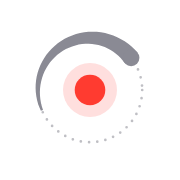
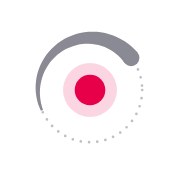
Palet C (Amaranth, Orange, Spring Green, Yale Blue) en afvinken als slinger
De momenten krijgen het palet op basis van Victors foto, van warm naar
koel, getoetst op contrast en onderscheid in licht en donker. Afvinken
laat de bol niet meer uiteenspatten: hij vliegt rechtdoor uit zijn baan,
in de richting waarin hij bewoog en met dezelfde snelheid, zoals een
planeet zonder zwaartekracht. Iconen en favicon met de nieuwe kernkleur.

Claude-Session: https://claude.ai/code/session_01DKza2nncPbWGfFsHg8Vg2p

Changed region(s): [[0.4167, 0.4167, 0.5833, 0.5833]]

diff --git a/src/scene.js b/src/scene.js
@@ -29,6 +29,7 @@ const TAIL_GAP = 7, TAIL_LENGTH = 1.1, TRAIL_STEPS = 10;
 const ORB_SCALE = 0.85;                 // straal t.o.v. LEVELS[].size / 2
 // Kern: zeshoekig raster van puntjes (stage-eenheden), straal groeit van rustig naar dringend.
 // Op een klein scherm wordt het raster grover (min. CORE_MIN_PX tussen de puntjes), anders vervloeit het tot een vlek.
+const FLING_MIN = 90, FLING_LIFE = 1.6;   // afvinken: minimale vaart (eenheden/s) en levensduur (s)
 const CORE_RMIN = 13, CORE_RMAX = 22, CORE_SPACING = 3.1, CORE_MIN_PX = 5;
 const coreGrids = new Map();
 function coreGrid(spacing) {
@@ -92,8 +93,7 @@ export function createScene(canvas, { onHover = () => {}, onReassign = () => {},
   const speed = new Map(LEVELS.map(l => [l.id, 1]));
   const ringHot = new Map(LEVELS.map(l => [l.id, 0]));
   const orbs = new Map();
-  const particles = [];
-  const waves = [];
+  const flung = [];      // afgevinkte bollen die uit hun baan vliegen
   let hover = { orb: null, level: null }, external = { task: null, level: null }, pinned = null;
   let drag = null, dropLevel = null;
   // urgentie van de kern: 0 = rustig, 1 = alleen vandaag, tot 2 = veel Nu-taken
@@ -239,12 +239,21 @@ export function createScene(canvas, { onHover = () => {}, onReassign = () => {},
     orbs.delete(id);
     layoutOffsets();
     if (reducedMotion.matches || o.sx == null) return;
-    const rgb = colors.get(o.level);
-    for (let k = 0; k < 18; k++) {
-      const a = Math.random() * TAU, v = (60 + Math.random() * 120) * cam.du;
-      particles.push({ x: o.sx, y: o.sy, vx: Math.cos(a) * v, vy: Math.sin(a) * v, life: 0, max: 0.7 + Math.random() * 0.6, r: (1 + Math.random() * 1.4) * cam.du, c: rgb });
+    // Slinger: de zwaartekracht valt weg, dus de bol vliegt rechtdoor in de richting waarin hij bewoog,
+    // met de snelheid die hij had (tangentieel plus eventuele radiale snelheid), op zijn eigen diepte.
+    const lv = LEVEL_BY_ID.get(o.level);
+    const a = orbAngle(o);
+    const [x, y, z] = orbFunnel(o, a);
+    const omega = TAU / lv.period * speed.get(o.level) + (o.vo || 0);
+    let vx = -Math.sin(a) * o.r * omega - Math.cos(a) * (o.vr || 0);
+    let vy = Math.cos(a) * o.r * omega - Math.sin(a) * (o.vr || 0);
+    let v = Math.hypot(vx, vy);
+    if (v < FLING_MIN) {
+      // stilstaand (hover, tempo Stil) of heel traag (Ooit): zelfde richting, net genoeg vaart om weg te gaan
+      const dx = v > 0.01 ? vx / v : -Math.sin(a), dy = v > 0.01 ? vy / v : Math.cos(a);
+      vx = dx * FLING_MIN; vy = dy * FLING_MIN; v = FLING_MIN;
     }
-    waves.push({ x: o.sx, y: o.sy, age: 0, c: colors.get(o.level), r0: o.sr });
+    flung.push({ level: o.level, x, y, z, vx, vy, v, age: 0, alpha: o.alpha ?? 1 });
   }
 
   /* ---- Weergave ---- */
@@ -311,14 +320,12 @@ export function createScene(canvas, { onHover = () => {}, onReassign = () => {},
       if (o.blend) { o.blend.p += dt / 0.45; if (o.blend.p >= 1) o.blend = null; }
     }
 
-    for (let i = particles.length - 1; i >= 0; i--) {
-      const q = particles[i];
-      q.life += dt;
+    for (let i = flung.length - 1; i >= 0; i--) {
+      const q = flung[i];
+      q.age += dt;
       q.x += q.vx * dt; q.y += q.vy * dt;
-      q.vx *= Math.exp(-2.4 * dt); q.vy *= Math.exp(-2.4 * dt);
-      if (q.life >= q.max) particles.splice(i, 1);
+      if (q.age > FLING_LIFE || Math.hypot(q.x, q.y) > 900) flung.splice(i, 1);
     }
-    for (let i = waves.length - 1; i >= 0; i--) { waves[i].age += dt; if (waves[i].age > 0.8) waves.splice(i, 1); }
 
     // kern: urgentie, kleur, tempo en aantal golven glijden mee met de taken
     const target = nowCount > 0 ? 1 + Math.min(nowCount - 1, 3) / 3 : todayCount > 0 ? 0.5 : 0;
@@ -582,21 +589,30 @@ export function createScene(canvas, { onHover = () => {}, onReassign = () => {},
     }
   }
 
+  // Losgelaten bollen: rechte lijn, staart achter zich in de vliegrichting, vervagen tegen het einde
   function drawEffects() {
-    for (const q of particles) {
-      const k = 1 - q.life / q.max;
-      ctx.fillStyle = rgba(q.c, 0.85 * k);
+    for (const q of flung) {
+      if (!project(q.x, q.y, q.z, true)) continue;
+      const lv = LEVEL_BY_ID.get(q.level);
+      const hx = pt.x, hy = pt.y;
+      const r = lv.size / 2 * ORB_SCALE * cam.du * pt.f;
+      const cruise = lv.orbit * TAU / lv.period;
+      const length = (lv.tail + 1) * TAIL_GAP * TAIL_LENGTH * Math.min(2.5, Math.max(0.6, q.v / cruise));
+      trailPts.length = 0;
+      trailPts.push(hx, hy);
+      for (let k = 1; k <= 10; k++) {
+        const back = length * k / 10;
+        if (!project(q.x - q.vx / q.v * back, q.y - q.vy / q.v * back, q.z, true)) break;
+        trailPts.push(pt.x, pt.y);
+      }
+      const fade = 1 - Math.max(0, (q.age - (FLING_LIFE - 0.5)) / 0.5);
+      ctx.globalAlpha = q.alpha * fade;
+      ctx.fillStyle = rgba(colors.get(q.level), 1);
+      taper(r * 2, r * 0.35);
       ctx.beginPath();
-      ctx.arc(q.x, q.y, q.r * (0.6 + 0.4 * k), 0, TAU);
+      ctx.arc(hx, hy, r, 0, TAU);
       ctx.fill();
-    }
-    for (const w of waves) {
-      const p = w.age / 0.8;
-      ctx.strokeStyle = rgba(w.c, 0.5 * (1 - p));
-      ctx.lineWidth = 1.5;
-      ctx.beginPath();
-      ctx.arc(w.x, w.y, w.r0 + p * 46 * cam.du, 0, TAU);
-      ctx.stroke();
+      ctx.globalAlpha = 1;
     }
   }
 

diff --git a/src/config.js b/src/config.js
@@ -2,11 +2,11 @@
 // ring: straal van de gestippelde ring, orbit: baanstraal van de bollen (eenheden in de 390-stage)
 // color: tint op licht papier, dark: gedempte tint voor de donkere modus (minder verzadigd, geen kleurboek-effect)
 export const LEVELS = [
-  { id: 1, name: 'Nu',      ring: 38,  orbit: 38,  period: 1.1, color: '#FF3B30', dark: '#E25A52', size: 7,   tail: 3 },
-  { id: 2, name: 'Vandaag', ring: 72,  orbit: 72,  period: 2.8, color: '#FF8A00', dark: '#D98C4A', size: 6,   tail: 2 },
-  { id: 3, name: 'Week',    ring: 106, orbit: 106, period: 7,   color: '#34B87A', dark: '#62AE88', size: 5.5, tail: 2 },
-  { id: 4, name: 'Maand',   ring: 140, orbit: 140, period: 16,  color: '#2A93E0', dark: '#5F99CC', size: 5,   tail: 1 },
-  { id: 5, name: 'Ooit',    ring: 174, orbit: 174, period: 38,  color: '#8A63F2', dark: '#9580D6', size: 5,   tail: 1 },
+  { id: 1, name: 'Nu',      ring: 38,  orbit: 38,  period: 1.1, color: '#E70049', dark: '#F0306A', size: 7,   tail: 3 },
+  { id: 2, name: 'Vandaag', ring: 72,  orbit: 72,  period: 2.8, color: '#E08600', dark: '#F5A623', size: 6,   tail: 2 },
+  { id: 3, name: 'Week',    ring: 106, orbit: 106, period: 7,   color: '#0FAE69', dark: '#20E08A', size: 5.5, tail: 2 },
+  { id: 4, name: 'Maand',   ring: 140, orbit: 140, period: 16,  color: '#1F78B4', dark: '#38A0F0', size: 5,   tail: 1 },
+  { id: 5, name: 'Ooit',    ring: 174, orbit: 174, period: 38,  color: '#08415C', dark: '#B3B9D6', size: 5,   tail: 1 },
 ];
 export const LEVEL_BY_ID = new Map(LEVELS.map(l => [l.id, l]));
 

diff --git a/icons/make_icons.py b/icons/make_icons.py
@@ -1,6 +1,6 @@
 import math, os
 OUT = os.path.join(os.path.dirname(os.path.abspath(__file__)), '..')
-PAPER, INK, RED = '#F1F1EF', '#1B1B22', '#FF3B30'
+PAPER, INK, RED = '#F1F1EF', '#1B1B22', '#E70049'
 DARK_BG, DARK_INK = '#0F0F12', '#ECECF1'
 # App-icoon is transparant (liquid glass): middengrijs blijft leesbaar op lichte én donkere achtergronden
 GLASS_INK = '#8A8A94'

diff --git a/CLAUDE.md b/CLAUDE.md
@@ -35,7 +35,7 @@ Richting gekozen door Victor: posterstijl (lichte poster-reeks met wazige kleurb
 
 ## Icoon
 
-- Merkteken: rode kern met één effen lichtgolf (het baken) en één taps bolletje dat er met de klok mee omheen draait; op het grote icoon ook de gestippelde ring. Geen verloop of glans: iOS (liquid glass) en Android (maskers, Material You) voegen hun eigen effect toe.
+- Merkteken: Amaranth-kern (#E70049, zelfde als Nu) met één effen lichtgolf (het baken) en één taps bolletje dat er met de klok mee omheen draait; op het grote icoon ook de gestippelde ring. Geen verloop of glans: iOS (liquid glass) en Android (maskers, Material You) voegen hun eigen effect toe.
 - App-icoon (`apple-touch-icon`, Android `any`) is volledig transparant buiten de orbit-elementen (Victor: liquid glass). Bolletje en ring zijn daarom middengrijs #8A8A94, leesbaar op lichte én donkere achtergronden. Alleen `maskable` heeft papier #F1F1EF (Android eist een vol vlak). Onzeker: iOS vulde transparantie bij webiconen vroeger met zwart; blijkt dat zo, terug naar een vol vlak.
 - Favicon is vetter en zonder stippelring (leesbaar op 16 px) en volgt licht/donker via een media query in de SVG.
 
@@ -60,13 +60,13 @@ Richting gekozen door Victor: posterstijl (lichte poster-reeks met wazige kleurb
 
 | id | naam | ring | baan | omloop | kleur | donker |
 |---|---|---:|---:|---:|---|---|
-| 1 | Nu | 38 | 38 | 1,1 s | #FF3B30 | #E25A52 |
-| 2 | Vandaag | 72 | 72 | 2,8 s | #FF8A00 | #D98C4A |
-| 3 | Week | 106 | 106 | 7 s | #34B87A | #62AE88 |
-| 4 | Maand | 140 | 140 | 16 s | #2A93E0 | #5F99CC |
-| 5 | Ooit | 174 | 174 | 38 s | #8A63F2 | #9580D6 |
+| 1 | Nu | 38 | 38 | 1,1 s | #E70049 | #F0306A |
+| 2 | Vandaag | 72 | 72 | 2,8 s | #E08600 | #F5A623 |
+| 3 | Week | 106 | 106 | 7 s | #0FAE69 | #20E08A |
+| 4 | Maand | 140 | 140 | 16 s | #1F78B4 | #38A0F0 |
+| 5 | Ooit | 174 | 174 | 38 s | #08415C | #B3B9D6 |
 
-Kleuren liggen gelijk verdeeld over het spectrum (rood, oranje, groen, blauw, violet); geel naast oranje was te weinig onderscheidbaar, zeker in het donker.
+Palet C "Foto, warm naar koel" (gekozen door Victor, vertrokken van zijn foto: Amaranth, Orange, Spring Green, Yale Blue). Hoe verder weg, hoe koeler: Nu en Vandaag warm, Week groen, Maand en Ooit twee tinten Yale Blue; in het donker wordt Ooit een zacht staalblauw (anders te dicht bij Maand). Geen geel: naast oranje te weinig onderscheidbaar. Getoetst: elke kleur minstens 2,4:1 tegen het lichte papier en 4,9:1 tegen het donkere, en elk paar momenten minstens 0,16 uit elkaar in OKLab (vorige palet: Maand en Ooit 0,09 in het donker, te dicht).
 
 Elke bol draait op zijn eigen ring, ook Nu (baan 38 = ring 38; vroeger 24, dat oogde alsof de Nu-bollen naast hun baan zweefden).
 
@@ -83,7 +83,8 @@ Elke bol draait op zijn eigen ring, ook Nu (baan 38 = ring 38; vroeger 24, dat o
 - Hover over een ring of bol: die baan glijdt tot stilstand (`speed` → 0), staarten krimpen mee, labels verschijnen (witte pil met leader), de bol krijgt een dun ringetje. Hover op een rij in de lijst doet hetzelfde voor die ene taak.
 - Slepen op een bol: bol volgt de cursor, dichtstbijzijnde ring licht op ("Naar …"), loslaten verplaatst de taak (`onReassign`). Slepen op lege ruimte: horizontaal draaien, verticaal kantelen; loslaten klikt naar het dichtste aanzicht.
 - Kern (`drawCore`): **Rasterpunt** (gekozen door Victor uit twee reeksen voorstellen, nr. 10). Een cirkel van drukpuntjes in een zeshoekig raster, zoals op een risoposter, plat in het vlak van de tip (elk puntje wordt geprojecteerd, dus een ellips in het zijaanzicht). Puntjes groter in het midden, kleiner naar de rand. `urgency` bepaalt kleur (grijs, oranje, rood), straal (13 tot 22 + 4 eenheden) en de golf: bij elke slag (`beat`) rolt een golf van grotere puntjes naar buiten. Rustig: klein, grijs, een trage ademgolf. Stil-tempo en reduced motion: geen golf. Op kleine schermen wordt het raster grover (min. 5 px tussen puntjes, `coreGrid(spacing)` wordt gecachet), anders vervloeit het tot een vlek. Vorige kern (baken met stip en schijven) vond Victor te lakluster.
-- Intro: raster, wijzerplaat en ringen (van binnen naar buiten) faden in, bollen spiralen gestaffeld binnen. Nieuwe taken spiralen ook binnen; afvinken laat de bol uiteenspatten (deeltjes + ring).
+- Intro: raster, wijzerplaat en ringen (van binnen naar buiten) faden in, bollen spiralen gestaffeld binnen. Nieuwe taken spiralen ook binnen.
+- Afvinken: **Slinger** (gekozen door Victor). De zwaartekracht valt weg: de bol vliegt in een rechte lijn verder in de richting waarin hij bewoog (raaklijn plus eventuele radiale snelheid), met de snelheid die hij had, op zijn eigen diepte in de trechter (`flung`). Stond hij stil of ging hij heel traag (hover, tempo Stil, Ooit), dan dezelfde richting met minstens `FLING_MIN` = 90 eenheden/s. Staart recht achter zich, lengte volgt de snelheid zoals bij gewone bollen; na `FLING_LIFE` = 1,6 s vervaagd. Vervangt de oude deeltjes en ring ("standaard"). Reduced motion: geen animatie.
 - Tijdgebaseerd (dt), dus even snel op 60 en 120 Hz.
 - Tempo (`TEMPO`, `setTempo`): normaal; zen (omlooptijd Nu 8 s, de rest op een samengedrukte schaal `8 × (omloop / 1,1)^0,55`, zodat Nu het snelst blijft; trechter draait aan 35 %, kern klopt half zo snel); stil (banen en trechter glijden tot stilstand, kern zonder golven). Wissels glijden via `speed`, `spinScale`, `beatScale` en `waveVis`. Staarten volgen de snelheid en worden in zen vanzelf korte druppels.
 
